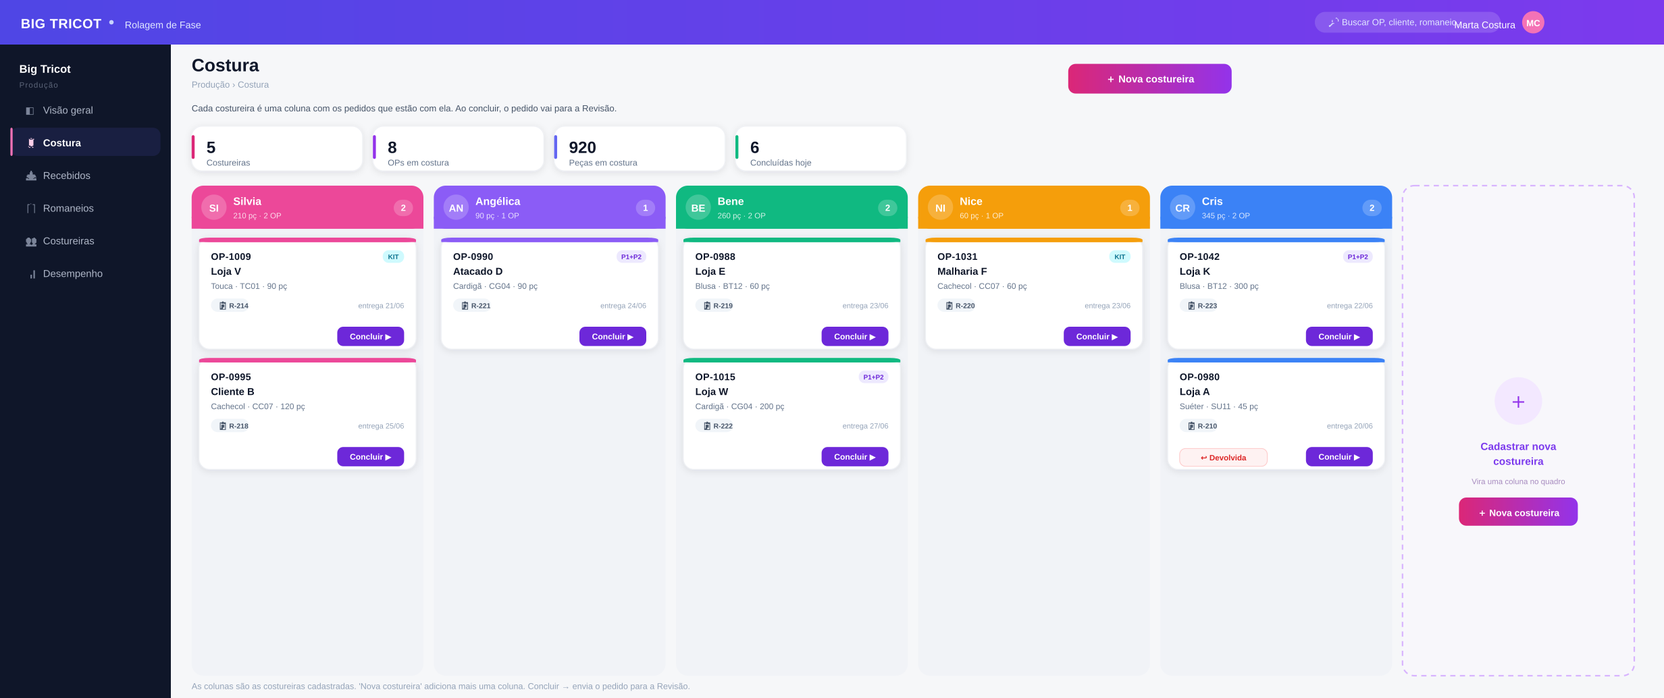
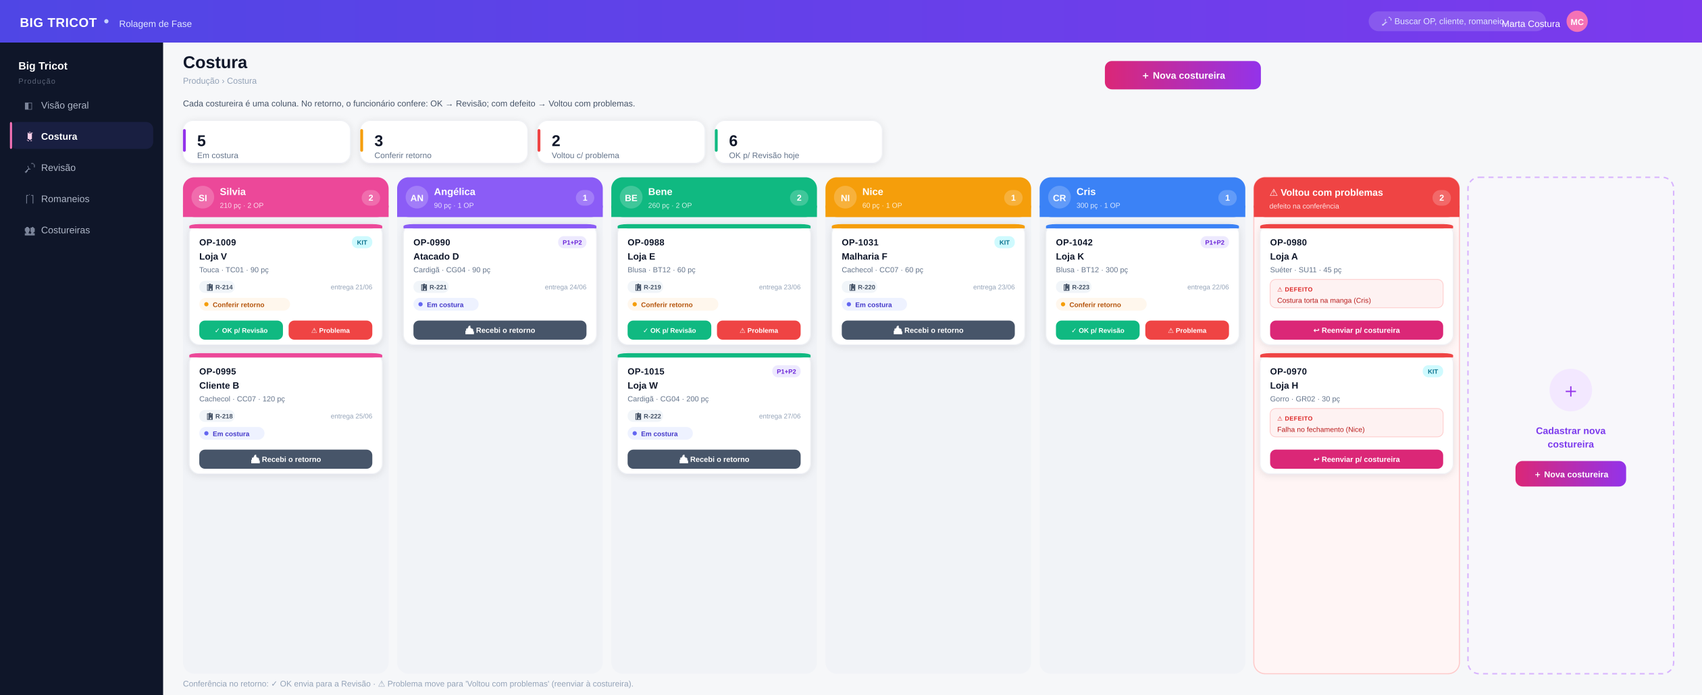
design+docs: Costura com conferencia no retorno (OK->Revisao / problema->Voltou com problemas) + setor Revisao (aguardando + revisoras Betania/Bruna/Sula/Ray/Eduarda + cadastrar)
Claude-Session: https://claude.ai/code/session_01XdKmwhB2iKVzR9dcT8XvFF

diff --git a/scripts/gen_costura.py b/scripts/gen_costura.py
@@ -15,7 +15,7 @@ def circle(cx,cy,r,fill,stroke=None,sw=2):
     s=f'<circle cx="{cx}" cy="{cy}" r="{r}" fill="{fill}"'
     if stroke: s+=f' stroke="{stroke}" stroke-width="{sw}"'
     return s+'/>'
-GRADS={"brand":("#4f46e5","#7c3aed"),"cos":("#db2777","#9333ea")}
+GRADS={"brand":("#4f46e5","#7c3aed"),"cos":("#db2777","#9333ea"),"rev":("#0d9488","#0891b2")}
 def gdefs(): return "".join(f'<linearGradient id="g_{k}" x1="0" y1="0" x2="1" y2="0"><stop offset="0" stop-color="{a}"/><stop offset="1" stop-color="{b}"/></linearGradient>' for k,(a,b) in GRADS.items())
 DEFS=('<defs>'+gdefs()+'<filter id="cardShadow" x="-30%" y="-30%" width="160%" height="160%">'
  '<feDropShadow dx="0" dy="2" stdDeviation="5" flood-color="#0f172a" flood-opacity="0.10"/></filter>'
@@ -25,121 +25,128 @@ def svg(w,h,body,bg="#f6f7f9"):
     return (f'<svg xmlns="http://www.w3.org/2000/svg" width="{w}" height="{h}" viewBox="0 0 {w} {h}" '
             f'font-family="Inter, Segoe UI, Helvetica, Arial, sans-serif">'+DEFS+rect(0,0,w,h,bg)+body+'</svg>')
 def avatar(cx,cy,r,ini,fill,fg="#fff"): return circle(cx,cy,r,fill)+text(cx,cy+r*0.35,ini,r*0.8,fg,weight="bold",anchor="middle")
+def tagchip(x,y,tag):
+    if not tag: return ""
+    tw=12+len(tag)*5.6; tc="#ede9fe" if tag!="KIT" else "#cffafe"; tf="#6d28d9" if tag!="KIT" else "#0e7490"
+    return rect(x-tw,y,tw,17,tc,rx=8)+text(x-tw/2,y+12,tag,9,tf,weight="bold",anchor="middle")
+def btn(x,y,w,label,col,h=27,fs=10.5):
+    return rect(x,y,w,h,col,rx=8)+text(x+w/2,y+h*0.64,label,fs,"#fff",weight="bold",anchor="middle")
 
-def ccard(x,y,cw,color,op,tag,client,product,qty,rom,due,devolvido=False):
-    ch=150
+def card(x,y,cw,color,op,tag,client,product,qty,rom,due,state,defect=None):
+    ch=170
     s=rect(x,y,cw,ch,"#ffffff",rx=14,stroke="#eef0f4",filt="cardShadow")
-    s+=rect(x,y,cw,6,color,rx=14)+rect(x,y+3,cw,3,color)
-    s+=text(x+16,y+30,op,13,"#0f172a",weight="bold",ls="0.3")
-    if tag:
-        tw=12+len(tag)*5.6; tc="#ede9fe" if tag!="KIT" else "#cffafe"; tf="#6d28d9" if tag!="KIT" else "#0e7490"
-        s+=rect(x+cw-16-tw,y+17,tw,17,tc,rx=8)+text(x+cw-16-tw/2,y+29,tag,9,tf,weight="bold",anchor="middle")
-    s+=text(x+16,y+50,client,13.5,"#0f172a",weight="bold")
-    s+=text(x+16,y+69,f"{product} · {qty} pç",11,"#64748b")
-    # romaneio + entrega
-    ry=y+82
-    rw=20+len(rom)*6.2
-    s+=rect(x+16,ry,rw,18,"#f1f5f9",rx=9)+text(x+16+10,ry+13,"📋 "+rom,9.5,"#475569",weight="bold")
-    s+=text(x+cw-16,ry+13,f"entrega {due}",10,"#94a3b8",anchor="end")
-    # footer
-    fy=y+ch-30
-    if devolvido:
-        s+=rect(x+16,fy+2,118,24,"#fef2f2",rx=8,stroke="#fecaca")+text(x+16+59,fy+18,"↩ Devolvida",10.5,"#dc2626",weight="bold",anchor="middle")
-    lab="Concluir ▶"; bw=24+len(lab)*6.6
-    s+=rect(x+cw-16-bw,fy,bw,26,"#6d28d9",rx=8)+text(x+cw-16-bw/2,fy+17,lab,11,"#fff",weight="bold",anchor="middle")
+    bar = "#ef4444" if state=="problema" else color
+    s+=rect(x,y,cw,6,bar,rx=14)+rect(x,y+3,cw,3,bar)
+    s+=text(x+14,y+30,op,12.5,"#0f172a",weight="bold",ls="0.3")+tagchip(x+cw-14,y+17,tag)
+    s+=text(x+14,y+50,client,13,"#0f172a",weight="bold")
+    s+=text(x+14,y+68,f"{product} · {qty} pç",10.5,"#64748b")
+    if state=="problema":
+        s+=rect(x+14,y+78,cw-28,40,"#fef2f2",rx=8,stroke="#fecaca")
+        s+=text(x+24,y+95,"⚠ DEFEITO",8.5,"#dc2626",weight="bold",ls="0.4")
+        s+=text(x+24,y+111,defect,10,"#b91c1c")
+        s+=btn(x+14,y+ch-34,cw-28,"↩ Reenviar p/ costureira","#db2777")
+        return s
+    # rom + entrega
+    ry=y+80; rw=20+len(rom)*6.0
+    s+=rect(x+14,ry,rw,17,"#f1f5f9",rx=8)+text(x+14+9,ry+12,"📋 "+rom,9,"#475569",weight="bold")
+    s+=text(x+cw-14,ry+12,f"entrega {due}",9.5,"#94a3b8",anchor="end")
+    # status chip
+    cy2=y+104
+    if state=="costura":
+        s+=rect(x+14,cy2,92,18,"#eef2ff",rx=9)+circle(x+24,cy2+9,3,"#6366f1")+text(x+33,cy2+13,"Em costura",9.5,"#4338ca",weight="bold")
+        s+=btn(x+14,y+ch-34,cw-28,"📥 Recebi o retorno","#475569")
+    else: # retorno → conferência
+        s+=rect(x+14,cy2,128,18,"#fff7ed",rx=9)+circle(x+24,cy2+9,3,"#f59e0b")+text(x+33,cy2+13,"Conferir retorno",9.5,"#b45309",weight="bold")
+        bw=(cw-28-8)/2
+        s+=btn(x+14,y+ch-34,bw,"✓ OK p/ Revisão","#10b981",fs=9.5)
+        s+=btn(x+14+bw+8,y+ch-34,bw,"⚠ Problema","#ef4444",fs=9.5)
     return s
 
 def board():
-    W,H=2240,940
+    W,H=2400,980
     b=rect(0,0,W,60,"url(#g_brand)")
     b+=text(28,38,"BIG TRICOT",18,"#fff",weight="bold",ls="0.5")+circle(150,30,3,"#c7d2fe")+text(168,38,"Rolagem de Fase",13,"#e0e7ff")
     b+=rect(W-470,16,250,28,"#ffffff26",rx=14)+text(W-452,34,"🔎  Buscar OP, cliente, romaneio…",12,"#e0e7ff")
     b+=text(W-200,38,"Marta Costura",13,"#fff",anchor="end")+avatar(W-176,30,15,"MC","#f472b6")
     b+=rect(0,60,230,H-60,"#0f1629")+text(26,98,"Big Tricot",15,"#fff",weight="bold")+text(26,118,"Produção",10.5,"#5b6478",ls="1")
-    nav=[("◧","Visão geral",False),("🧵","Costura",True),("📥","Recebidos",False),("📋","Romaneios",False),("👥","Costureiras",False),("📊","Desempenho",False)]
+    nav=[("◧","Visão geral",False),("🧵","Costura",True),("🔎","Revisão",False),("📋","Romaneios",False),("👥","Costureiras",False)]
     y=150
     for ic,label,act in nav:
         if act: b+=rect(14,y-22,202,38,"#6366f11f",rx=10)+rect(14,y-22,3,38,"#f472b6",rx=2)+text(34,y+3,ic,13,"#fbcfe8")+text(58,y+3,label,13.5,"#fff",weight="bold")
         else: b+=text(34,y+3,ic,13,"#7b8499")+text(58,y+3,label,13.5,"#aeb6c7")
         y+=44
     b+=text(258,96,"Costura",24,"#0f172a",weight="bold")+text(258,118,"Produção  ›  Costura",12,"#94a3b8")
-    b+=text(258,150,"Cada costureira é uma coluna com os pedidos que estão com ela. Ao concluir, o pedido vai para a Revisão.",12,"#475569")
-    # botão nova costureira no topo direito
-    b+=rect(258+1180,86,220,40,"url(#g_cos)",rx=10)+text(258+1180+110,111,"＋  Nova costureira",13.5,"#fff",weight="bold",anchor="middle")
-    kpis=[("Costureiras","5","#db2777"),("OPs em costura","8","#9333ea"),("Peças em costura","920","#6366f1"),("Concluídas hoje","6","#10b981")]
+    b+=text(258,150,"Cada costureira é uma coluna. No retorno, o funcionário confere: OK → Revisão; com defeito → Voltou com problemas.",12,"#475569")
+    b+=rect(258+1300,86,220,40,"url(#g_cos)",rx=10)+text(258+1300+110,111,"＋  Nova costureira",13.5,"#fff",weight="bold",anchor="middle")
+    kpis=[("Em costura","5","#9333ea"),("Conferir retorno","3","#f59e0b"),("Voltou c/ problema","2","#ef4444"),("OK p/ Revisão hoje","6","#10b981")]
     x=258
     for l,n,c in kpis:
-        b+=rect(x,170,230,60,"#ffffff",rx=14,stroke="#eef0f4",filt="cardShadow")+rect(x,182,4,32,c,rx=2)+text(x+20,206,n,22,"#0f172a",weight="bold")+text(x+20,223,l,11.5,"#64748b")
-        x+=244
-    # colunas = costureiras
+        b+=rect(x,170,236,60,"#ffffff",rx=14,stroke="#eef0f4",filt="cardShadow")+rect(x,182,4,32,c,rx=2)+text(x+20,206,n,22,"#0f172a",weight="bold")+text(x+20,223,l,11.5,"#64748b")
+        x+=250
     cost=[
-     ("Silvia","SI","#ec4899",[("OP-1009","KIT","Loja V","Touca · TC01","90","R-214","21/06",False),
-                                ("OP-0995","","Cliente B","Cachecol · CC07","120","R-218","25/06",False)]),
-     ("Angélica","AN","#8b5cf6",[("OP-0990","P1+P2","Atacado D","Cardigã · CG04","90","R-221","24/06",False)]),
-     ("Bene","BE","#10b981",[("OP-0988","","Loja E","Blusa · BT12","60","R-219","23/06",False),
-                              ("OP-1015","P1+P2","Loja W","Cardigã · CG04","200","R-222","27/06",False)]),
-     ("Nice","NI","#f59e0b",[("OP-1031","KIT","Malharia F","Cachecol · CC07","60","R-220","23/06",False)]),
-     ("Cris","CR","#3b82f6",[("OP-1042","P1+P2","Loja K","Blusa · BT12","300","R-223","22/06",False),
-                              ("OP-0980","","Loja A","Suéter · SU11","45","R-210","20/06",True)]),
+     ("Silvia","SI","#ec4899",[("OP-1009","KIT","Loja V","Touca · TC01","90","R-214","21/06","retorno",None),
+                                ("OP-0995","","Cliente B","Cachecol · CC07","120","R-218","25/06","costura",None)]),
+     ("Angélica","AN","#8b5cf6",[("OP-0990","P1+P2","Atacado D","Cardigã · CG04","90","R-221","24/06","costura",None)]),
+     ("Bene","BE","#10b981",[("OP-0988","","Loja E","Blusa · BT12","60","R-219","23/06","retorno",None),
+                              ("OP-1015","P1+P2","Loja W","Cardigã · CG04","200","R-222","27/06","costura",None)]),
+     ("Nice","NI","#f59e0b",[("OP-1031","KIT","Malharia F","Cachecol · CC07","60","R-220","23/06","costura",None)]),
+     ("Cris","CR","#3b82f6",[("OP-1042","P1+P2","Loja K","Blusa · BT12","300","R-223","22/06","retorno",None)]),
     ]
-    x0=258; cw=312; gap=14; ytop=250; colh=H-ytop-30
+    x0=258; cw=290; gap=12; ytop=250; colh=H-ytop-30
     for ci,(name,ini,color,cards) in enumerate(cost):
         x=x0+ci*(cw+gap)
         b+=rect(x,ytop,cw,colh,"#f1f3f7",rx=16)
-        b+=rect(x,ytop,cw,58,color,rx=16)+rect(x,ytop+42,cw,16,color)
-        b+=avatar(x+30,ytop+29,17,ini,"#ffffff33")
-        b+=text(x+56,ytop+26,name,14.5,"#fff",weight="bold")+text(x+56,ytop+44,f"{sum(int(c[4]) for c in cards)} pç · {len(cards)} OP",10.5,"#ffffffcc")
-        b+=rect(x+cw-40,ytop+19,26,22,"#ffffff33",rx=11)+text(x+cw-27,ytop+34,str(len(cards)),12,"#fff",weight="bold",anchor="middle")
-        cy=ytop+70
+        b+=rect(x,ytop,cw,56,color,rx=16)+rect(x,ytop+40,cw,16,color)
+        b+=avatar(x+28,ytop+28,16,ini,"#ffffff33")
+        b+=text(x+52,ytop+25,name,14,"#fff",weight="bold")+text(x+52,ytop+43,f"{sum(int(c[4]) for c in cards)} pç · {len(cards)} OP",10,"#ffffffcc")
+        b+=rect(x+cw-38,ytop+18,26,22,"#ffffff33",rx=11)+text(x+cw-25,ytop+33,str(len(cards)),12,"#fff",weight="bold",anchor="middle")
+        cy=ytop+66
         for c in cards:
-            b+=ccard(x+10,cy,cw-20,color,c[0],c[1],c[2],c[3],c[4],c[5],c[6],c[7]); cy+=162
-    # coluna add
+            b+=card(x+9,cy,cw-18,color,*c); cy+=182
+    # coluna Voltou com problemas
     x=x0+5*(cw+gap)
+    b+=rect(x,ytop,cw,colh,"#fff5f5",rx=16,stroke="#fecaca",sw=1.5)
+    b+=rect(x,ytop,cw,56,"#ef4444",rx=16)+rect(x,ytop+40,cw,16,"#ef4444")
+    b+=text(x+22,ytop+26,"⚠ Voltou com problemas",13.5,"#fff",weight="bold")+text(x+22,ytop+44,"defeito na conferência",10,"#fee2e2")
+    b+=rect(x+cw-38,ytop+18,26,22,"#ffffff33",rx=11)+text(x+cw-25,ytop+33,"2",12,"#fff",weight="bold",anchor="middle")
+    probs=[("OP-0980","","Loja A","Suéter · SU11","45","R-210","—","problema","Costura torta na manga (Cris)"),
+           ("OP-0970","KIT","Loja H","Gorro · GR02","30","R-205","—","problema","Falha no fechamento (Nice)")]
+    cy=ytop+66
+    for c in probs:
+        b+=card(x+9,cy,cw-18,"#ef4444",*c); cy+=182
+    # coluna add
+    x=x0+6*(cw+gap)
     b+=rect(x,ytop,cw,colh,"#f8f7fb",rx=16,stroke="#d8b4fe",sw=2,dash="7 6")
-    ccx=x+cw/2; ccy=ytop+colh/2-40
-    b+=circle(ccx,ccy,32,"#f3e8ff")+text(ccx,ccy+10,"＋",30,"#9333ea",anchor="middle")
-    b+=text(ccx,ccy+66,"Cadastrar nova",14,"#7c3aed",weight="bold",anchor="middle")
-    b+=text(ccx,ccy+86,"costureira",14,"#7c3aed",weight="bold",anchor="middle")
-    b+=text(ccx,ccy+112,"Vira uma coluna no quadro",10.5,"#a78bbf",anchor="middle")
-    b+=rect(x+cw/2-80,ccy+130,160,38,"url(#g_cos)",rx=10)+text(x+cw/2,ccy+155,"＋  Nova costureira",12.5,"#fff",weight="bold",anchor="middle")
-    b+=text(258,H-12,"As colunas são as costureiras cadastradas. 'Nova costureira' adiciona mais uma coluna. Concluir → envia o pedido para a Revisão.",11.5,"#94a3b8")
+    ccx=x+cw/2; ccy=ytop+colh/2-50
+    b+=circle(ccx,ccy,30,"#f3e8ff")+text(ccx,ccy+10,"＋",28,"#9333ea",anchor="middle")
+    b+=text(ccx,ccy+62,"Cadastrar nova",13.5,"#7c3aed",weight="bold",anchor="middle")
+    b+=text(ccx,ccy+81,"costureira",13.5,"#7c3aed",weight="bold",anchor="middle")
+    b+=rect(x+cw/2-78,ccy+100,156,36,"url(#g_cos)",rx=10)+text(x+cw/2,ccy+123,"＋  Nova costureira",12,"#fff",weight="bold",anchor="middle")
+    b+=text(258,H-12,"Conferência no retorno: ✓ OK envia para a Revisão · ⚠ Problema move para 'Voltou com problemas' (reenviar à costureira).",11.5,"#94a3b8")
     return svg(W,H,b)
 
 def modal():
     W,H=1180,820
     b=rect(0,0,W,60,"url(#g_brand)")+text(28,38,"BIG TRICOT",18,"#fff",weight="bold",ls="0.5")+text(168,38,"Rolagem de Fase",13,"#e0e7ff")+text(W-28,38,"Marta Costura",13,"#fff",anchor="end")
     b+=rect(0,60,W,H-60,"#eceef3")
-    mw,mh=560,580; mx=(W-mw)/2; my=110
+    mw,mh=560,560; mx=(W-mw)/2; my=110
     b+=rect(mx,my,mw,mh,"#ffffff",rx=22,filt="modalShadow")
     b+=rect(mx,my,mw,80,"url(#g_cos)",rx=22)+rect(mx,my+48,mw,32,"url(#g_cos)")
     b+=text(mx+28,my+38,"Cadastrar Costureira",19,"#fff",weight="bold")+text(mx+28,my+60,"Vira uma nova coluna no quadro da Costura",11.5,"#fce7f3")
     b+=circle(mx+mw-40,my+34,15,"#ffffff2e")+text(mx+mw-40,my+39,"✕",15,"#fff",anchor="middle")
     ix=mx+28; iw=mw-56
     def lbl(x,y,t): return text(x,y,t,9.5,"#94a3b8",weight="bold",ls="0.6")
-    def field(y,label,val,ph=False,w=None):
-        w=w or iw
-        s=lbl(ix,y,label)+rect(ix,y+8,w,44,"#ffffff",rx=10,stroke="#e2e8f0")
-        s+=text(ix+14,y+35,val,13,"#a5b4fc" if ph else "#0f172a",weight="normal" if ph else "bold")
-        return s
-    yy=my+108
-    b+=field(yy,"NOME DA COSTUREIRA","Ex.: Fernanda",ph=True)
-    half=(iw-16)/2
+    yy=my+108; half=(iw-16)/2
+    b+=lbl(ix,yy,"NOME DA COSTUREIRA")+rect(ix,yy+8,iw,44,"#ffffff",rx=10,stroke="#e2e8f0")+text(ix+14,yy+35,"Ex.: Fernanda",13,"#a5b4fc")
     b+=lbl(ix,yy+72,"TIPO")+rect(ix,yy+80,half,44,"#ffffff",rx=10,stroke="#e2e8f0")+text(ix+14,yy+107,"Interna  ▾",13,"#0f172a",weight="bold")
-    b+=rect(ix+half+16,yy+80,half,44,"#ffffff",rx=10,stroke="#e2e8f0")
-    b+=lbl(ix+half+16,yy+72,"CAPACIDADE (pç/sem)")
-    b+=text(ix+half+16+14,yy+107,"400",13,"#0f172a",weight="bold")
-    b+=field(yy+144,"CONTATO / TELEFONE","(00) 00000-0000",ph=True)
-    # cor/etiqueta
-    yc=yy+216
-    b+=lbl(ix,yc,"COR DA COLUNA")
-    colors=["#ec4899","#8b5cf6","#10b981","#f59e0b","#3b82f6","#ef4444","#14b8a6"]
-    cxx=ix
+    b+=lbl(ix+half+16,yy+72,"CAPACIDADE (pç/sem)")+rect(ix+half+16,yy+80,half,44,"#ffffff",rx=10,stroke="#e2e8f0")+text(ix+half+16+14,yy+107,"400",13,"#0f172a",weight="bold")
+    b+=lbl(ix,yy+144,"CONTATO / TELEFONE")+rect(ix,yy+152,iw,44,"#ffffff",rx=10,stroke="#e2e8f0")+text(ix+14,yy+179,"(00) 00000-0000",13,"#a5b4fc")
+    yc=yy+216; b+=lbl(ix,yc,"COR DA COLUNA")
+    colors=["#ec4899","#8b5cf6","#10b981","#f59e0b","#3b82f6","#ef4444","#14b8a6"]; cxx=ix
     for i,c in enumerate(colors):
-        sel = i==1
         b+=circle(cxx+16,yc+30,15,c)
-        if sel: b+=circle(cxx+16,yc+30,19,"none","#0f172a",2)
+        if i==1: b+=circle(cxx+16,yc+30,19,"none","#0f172a",2)
         cxx+=44
-    # footer
     fy=my+mh-64
     b+=rect(mx,fy-12,mw,76,"#fafbfc",rx=22)+rect(mx,fy-12,mw,30,"#fafbfc")
     b+=rect(ix,fy,130,44,"#ffffff",rx=10,stroke="#e2e8f0")+text(ix+65,fy+28,"Cancelar",13,"#475569",weight="bold",anchor="middle")
@@ -148,7 +155,7 @@ def modal():
 
 os.makedirs(OUT_SVG,exist_ok=True)
 open(os.path.join(OUT_SVG,"33-setor-costura.svg"),"w").write(board())
-subprocess.run(["rsvg-convert","-z","1.1",os.path.join(OUT_SVG,"33-setor-costura.svg"),"-o",os.path.join(OUT_PNG,"33-setor-costura.png")],check=True)
+subprocess.run(["rsvg-convert","-z","1.05",os.path.join(OUT_SVG,"33-setor-costura.svg"),"-o",os.path.join(OUT_PNG,"33-setor-costura.png")],check=True)
 open(os.path.join(OUT_SVG,"34-cadastrar-costureira.svg"),"w").write(modal())
 subprocess.run(["rsvg-convert","-z","1.5",os.path.join(OUT_SVG,"34-cadastrar-costureira.svg"),"-o",os.path.join(OUT_PNG,"34-cadastrar-costureira.png")],check=True)
-print("OK costura + modal")
+print("OK costura v2")

diff --git a/scripts/gen_revisao.py b/scripts/gen_revisao.py
@@ -1,0 +1,146 @@
+# -*- coding: utf-8 -*-
+import os, subprocess
+OUT_SVG="docs/prototipo/svg"; OUT_PNG="docs/prototipo"
+def esc(s): return str(s).replace("&","&amp;").replace("<","&lt;").replace(">","&gt;")
+def rect(x,y,w,h,fill,rx=0,stroke=None,sw=1,filt=None,dash=None):
+    s=f'<rect x="{x}" y="{y}" width="{w}" height="{h}" rx="{rx}" fill="{fill}"'
+    if stroke: s+=f' stroke="{stroke}" stroke-width="{sw}"'
+    if dash: s+=f' stroke-dasharray="{dash}"'
+    if filt: s+=f' filter="url(#{filt})"'
+    return s+'/>'
+def text(x,y,s,size=13,fill="#0f172a",weight="normal",anchor="start",ls=None):
+    extra=f' letter-spacing="{ls}"' if ls else ''
+    return f'<text x="{x}" y="{y}" font-size="{size}" fill="{fill}" font-weight="{weight}" text-anchor="{anchor}"{extra}>{esc(s)}</text>'
+def circle(cx,cy,r,fill,stroke=None,sw=2):
+    s=f'<circle cx="{cx}" cy="{cy}" r="{r}" fill="{fill}"'
+    if stroke: s+=f' stroke="{stroke}" stroke-width="{sw}"'
+    return s+'/>'
+GRADS={"brand":("#4f46e5","#7c3aed"),"rev":("#0d9488","#0891b2")}
+def gdefs(): return "".join(f'<linearGradient id="g_{k}" x1="0" y1="0" x2="1" y2="0"><stop offset="0" stop-color="{a}"/><stop offset="1" stop-color="{b}"/></linearGradient>' for k,(a,b) in GRADS.items())
+DEFS=('<defs>'+gdefs()+'<filter id="cardShadow" x="-30%" y="-30%" width="160%" height="160%">'
+ '<feDropShadow dx="0" dy="2" stdDeviation="5" flood-color="#0f172a" flood-opacity="0.10"/></filter>'
+ '<filter id="modalShadow" x="-30%" y="-30%" width="160%" height="160%">'
+ '<feDropShadow dx="0" dy="16" stdDeviation="28" flood-color="#1e1b4b" flood-opacity="0.28"/></filter></defs>')
+def svg(w,h,body,bg="#f6f7f9"):
+    return (f'<svg xmlns="http://www.w3.org/2000/svg" width="{w}" height="{h}" viewBox="0 0 {w} {h}" '
+            f'font-family="Inter, Segoe UI, Helvetica, Arial, sans-serif">'+DEFS+rect(0,0,w,h,bg)+body+'</svg>')
+def avatar(cx,cy,r,ini,fill,fg="#fff"): return circle(cx,cy,r,fill)+text(cx,cy+r*0.35,ini,r*0.8,fg,weight="bold",anchor="middle")
+def tagchip(x,y,tag):
+    if not tag: return ""
+    tw=12+len(tag)*5.6; tc="#ede9fe" if tag!="KIT" else "#cffafe"; tf="#6d28d9" if tag!="KIT" else "#0e7490"
+    return rect(x-tw,y,tw,17,tc,rx=8)+text(x-tw/2,y+12,tag,9,tf,weight="bold",anchor="middle")
+def btn(x,y,w,label,col,h=27,fs=10):
+    return rect(x,y,w,h,col,rx=8)+text(x+w/2,y+h*0.64,label,fs,"#fff",weight="bold",anchor="middle")
+
+def card(x,y,cw,color,op,tag,client,product,qty,rom,due,state):
+    ch=158
+    s=rect(x,y,cw,ch,"#ffffff",rx=14,stroke="#eef0f4",filt="cardShadow")
+    s+=rect(x,y,cw,6,color,rx=14)+rect(x,y+3,cw,3,color)
+    s+=text(x+14,y+30,op,12.5,"#0f172a",weight="bold",ls="0.3")+tagchip(x+cw-14,y+17,tag)
+    s+=text(x+14,y+50,client,13,"#0f172a",weight="bold")
+    s+=text(x+14,y+68,f"{product} · {qty} pç",10.5,"#64748b")
+    ry=y+80; rw=20+len(rom)*6.0
+    s+=rect(x+14,ry,rw,17,"#f1f5f9",rx=8)+text(x+14+9,ry+12,"📋 "+rom,9,"#475569",weight="bold")
+    s+=text(x+cw-14,ry+12,f"entrega {due}",9.5,"#94a3b8",anchor="end")
+    if state=="aguardando":
+        s+=btn(x+14,y+ch-34,cw-28,"👤 Atribuir revisora  ▾","#0d9488")
+    else:
+        bw=(cw-28-8)/2
+        s+=btn(x+14,y+ch-34,bw,"✓ Aprovar","#10b981")
+        s+=btn(x+14+bw+8,y+ch-34,bw,"✗ Reprovar","#ef4444")
+    return s
+
+def board():
+    W,H=2400,980
+    b=rect(0,0,W,60,"url(#g_brand)")
+    b+=text(28,38,"BIG TRICOT",18,"#fff",weight="bold",ls="0.5")+circle(150,30,3,"#c7d2fe")+text(168,38,"Rolagem de Fase",13,"#e0e7ff")
+    b+=rect(W-470,16,250,28,"#ffffff26",rx=14)+text(W-452,34,"🔎  Buscar OP, cliente, romaneio…",12,"#e0e7ff")
+    b+=text(W-200,38,"Sônia Revisão",13,"#fff",anchor="end")+avatar(W-176,30,15,"SR","#2dd4bf")
+    b+=rect(0,60,230,H-60,"#0f1629")+text(26,98,"Big Tricot",15,"#fff",weight="bold")+text(26,118,"Produção",10.5,"#5b6478",ls="1")
+    nav=[("◧","Visão geral",False),("🧵","Costura",False),("🔎","Revisão",True),("📦","Expedição",False),("👥","Revisoras",False)]
+    y=150
+    for ic,label,act in nav:
+        if act: b+=rect(14,y-22,202,38,"#6366f11f",rx=10)+rect(14,y-22,3,38,"#2dd4bf",rx=2)+text(34,y+3,ic,13,"#99f6e4")+text(58,y+3,label,13.5,"#fff",weight="bold")
+        else: b+=text(34,y+3,ic,13,"#7b8499")+text(58,y+3,label,13.5,"#aeb6c7")
+        y+=44
+    b+=text(258,96,"Revisão",24,"#0f172a",weight="bold")+text(258,118,"Produção  ›  Revisão",12,"#94a3b8")
+    b+=text(258,150,"Pedidos chegam em 'Aguardando para revisar'. Cada revisora é uma coluna. Aprovado → Expedição; reprovado → volta p/ Costura.",12,"#475569")
+    b+=rect(258+1300,86,210,40,"url(#g_rev)",rx=10)+text(258+1300+105,111,"＋  Nova revisora",13.5,"#fff",weight="bold",anchor="middle")
+    kpis=[("Aguardando revisar","4","#f59e0b"),("Em revisão","5","#0891b2"),("Aprovados hoje","8","#10b981"),("Reprovados hoje","2","#ef4444")]
+    x=258
+    for l,n,c in kpis:
+        b+=rect(x,170,236,60,"#ffffff",rx=14,stroke="#eef0f4",filt="cardShadow")+rect(x,182,4,32,c,rx=2)+text(x+20,206,n,22,"#0f172a",weight="bold")+text(x+20,223,l,11.5,"#64748b")
+        x+=250
+    x0=258; cw=290; gap=12; ytop=250; colh=H-ytop-30
+    # coluna Aguardando para revisar
+    x=x0
+    b+=rect(x,ytop,cw,colh,"#fffaf0",rx=16,stroke="#fcd9a3",sw=1.5)
+    b+=rect(x,ytop,cw,56,"#f59e0b",rx=16)+rect(x,ytop+40,cw,16,"#f59e0b")
+    b+=text(x+22,ytop+26,"Aguardando para revisar",13,"#fff",weight="bold")+text(x+22,ytop+44,"chegou da Costura (OK)",10,"#fff7e6")
+    b+=rect(x+cw-38,ytop+18,26,22,"#ffffff33",rx=11)+text(x+cw-25,ytop+33,"4",12,"#fff",weight="bold",anchor="middle")
+    aguard=[("OP-1009","KIT","Loja V","Touca · TC01","90","R-214","21/06"),
+            ("OP-0988","","Loja E","Blusa · BT12","60","R-219","23/06"),
+            ("OP-1015","P1+P2","Loja W","Cardigã · CG04","200","R-222","27/06"),
+            ("OP-1031","KIT","Malharia F","Cachecol · CC07","60","R-220","23/06")]
+    cy=ytop+66
+    for c in aguard:
+        b+=card(x+9,cy,cw-18,"#f59e0b",*c,"aguardando"); cy+=170
+    # colunas revisoras
+    revs=[("Betânia","BE","#0d9488",[("OP-0990","P1+P2","Atacado D","Cardigã · CG04","90","R-221","24/06")]),
+          ("Bruna","BR","#6366f1",[("OP-0995","","Cliente B","Cachecol · CC07","120","R-218","25/06")]),
+          ("Sula","SU","#ec4899",[("OP-1042","P1+P2","Loja K","Blusa · BT12","300","R-223","22/06")]),
+          ("Ray","RA","#f59e0b",[("OP-0985","KIT","Loja N","Luva · LV02","60","R-216","24/06")]),
+          ("Eduarda","ED","#8b5cf6",[("OP-0978","","Loja P","Suéter · SU11","80","R-212","26/06")])]
+    for ci,(name,ini,color,cards) in enumerate(revs):
+        x=x0+(ci+1)*(cw+gap)
+        b+=rect(x,ytop,cw,colh,"#f1f3f7",rx=16)
+        b+=rect(x,ytop,cw,56,color,rx=16)+rect(x,ytop+40,cw,16,color)
+        b+=avatar(x+28,ytop+28,16,ini,"#ffffff33")
+        b+=text(x+52,ytop+25,name,14,"#fff",weight="bold")+text(x+52,ytop+43,f"{len(cards)} em revisão",10,"#ffffffcc")
+        b+=rect(x+cw-38,ytop+18,26,22,"#ffffff33",rx=11)+text(x+cw-25,ytop+33,str(len(cards)),12,"#fff",weight="bold",anchor="middle")
+        cy=ytop+66
+        for c in cards:
+            b+=card(x+9,cy,cw-18,color,*c,"revisando"); cy+=170
+    # coluna add
+    x=x0+6*(cw+gap)
+    b+=rect(x,ytop,cw,colh,"#f0fdfa",rx=16,stroke="#5eead4",sw=2,dash="7 6")
+    ccx=x+cw/2; ccy=ytop+colh/2-50
+    b+=circle(ccx,ccy,30,"#ccfbf1")+text(ccx,ccy+10,"＋",28,"#0d9488",anchor="middle")
+    b+=text(ccx,ccy+62,"Cadastrar nova",13.5,"#0f766e",weight="bold",anchor="middle")
+    b+=text(ccx,ccy+81,"revisora",13.5,"#0f766e",weight="bold",anchor="middle")
+    b+=rect(x+cw/2-74,ccy+100,148,36,"url(#g_rev)",rx=10)+text(x+cw/2,ccy+123,"＋  Nova revisora",12,"#fff",weight="bold",anchor="middle")
+    b+=text(258,H-12,"Aprovar → Expedição (desmembra os pedidos agrupados). Reprovar → volta para a Costura em 'Voltou com problemas'.",11.5,"#94a3b8")
+    return svg(W,H,b)
+
+def modal():
+    W,H=1180,820
+    b=rect(0,0,W,60,"url(#g_brand)")+text(28,38,"BIG TRICOT",18,"#fff",weight="bold",ls="0.5")+text(168,38,"Rolagem de Fase",13,"#e0e7ff")+text(W-28,38,"Sônia Revisão",13,"#fff",anchor="end")
+    b+=rect(0,60,W,H-60,"#eceef3")
+    mw,mh=560,500; mx=(W-mw)/2; my=130
+    b+=rect(mx,my,mw,mh,"#ffffff",rx=22,filt="modalShadow")
+    b+=rect(mx,my,mw,80,"url(#g_rev)",rx=22)+rect(mx,my+48,mw,32,"url(#g_rev)")
+    b+=text(mx+28,my+38,"Cadastrar Revisora",19,"#fff",weight="bold")+text(mx+28,my+60,"Vira uma nova coluna no quadro da Revisão",11.5,"#ccfbf1")
+    b+=circle(mx+mw-40,my+34,15,"#ffffff2e")+text(mx+mw-40,my+39,"✕",15,"#fff",anchor="middle")
+    ix=mx+28; iw=mw-56
+    def lbl(x,y,t): return text(x,y,t,9.5,"#94a3b8",weight="bold",ls="0.6")
+    yy=my+108
+    b+=lbl(ix,yy,"NOME DA REVISORA")+rect(ix,yy+8,iw,44,"#ffffff",rx=10,stroke="#e2e8f0")+text(ix+14,yy+35,"Ex.: Patrícia",13,"#94d3c9")
+    b+=lbl(ix,yy+72,"CONTATO / TELEFONE")+rect(ix,yy+80,iw,44,"#ffffff",rx=10,stroke="#e2e8f0")+text(ix+14,yy+107,"(00) 00000-0000",13,"#94d3c9")
+    yc=yy+144; b+=lbl(ix,yc,"COR DA COLUNA")
+    colors=["#0d9488","#6366f1","#ec4899","#f59e0b","#8b5cf6","#ef4444","#14b8a6"]; cxx=ix
+    for i,c in enumerate(colors):
+        b+=circle(cxx+16,yc+30,15,c)
+        if i==0: b+=circle(cxx+16,yc+30,19,"none","#0f172a",2)
+        cxx+=44
+    fy=my+mh-64
+    b+=rect(mx,fy-12,mw,76,"#fafbfc",rx=22)+rect(mx,fy-12,mw,30,"#fafbfc")
+    b+=rect(ix,fy,130,44,"#ffffff",rx=10,stroke="#e2e8f0")+text(ix+65,fy+28,"Cancelar",13,"#475569",weight="bold",anchor="middle")
+    b+=rect(mx+mw-28-230,fy,230,44,"url(#g_rev)",rx=10)+text(mx+mw-28-115,fy+28,"💾  Salvar revisora",13,"#fff",weight="bold",anchor="middle")
+    return svg(W,H,b)
+
+os.makedirs(OUT_SVG,exist_ok=True)
+open(os.path.join(OUT_SVG,"35-setor-revisao.svg"),"w").write(board())
+subprocess.run(["rsvg-convert","-z","1.05",os.path.join(OUT_SVG,"35-setor-revisao.svg"),"-o",os.path.join(OUT_PNG,"35-setor-revisao.png")],check=True)
+open(os.path.join(OUT_SVG,"36-cadastrar-revisora.svg"),"w").write(modal())
+subprocess.run(["rsvg-convert","-z","1.5",os.path.join(OUT_SVG,"36-cadastrar-revisora.svg"),"-o",os.path.join(OUT_PNG,"36-cadastrar-revisora.png")],check=True)
+print("OK revisao")

diff --git a/docs/12-PAGINAS-POR-SETOR.md b/docs/12-PAGINAS-POR-SETOR.md
@@ -132,3 +132,24 @@ Formulário preenchido pela **Expedição** (o **Fiscal só visualiza**, em leit
 - **Cadastrar costureira** (modal): nome, tipo (interna/facção), capacidade (pç/sem), contato e **cor da coluna**.
 
 > Modelo de dados: catálogo `costureira` (nome, tipo, capacidade, cor) + `romaneio` ligando OPs à costureira. As colunas do quadro são geradas dinamicamente a partir das costureiras cadastradas.
+
+
+## 3.5b Costura — conferência no retorno ✅
+
+Quando o pedido **volta da costureira**, o funcionário da Costura **confere as peças** no próprio card:
+- **✓ OK p/ Revisão** → o pedido sai da Costura e entra na Revisão (coluna "Aguardando para revisar").
+- **⚠ Problema** → o card vai para a coluna **"Voltou com problemas"** (dentro da Costura), com o **defeito descrito** e o botão **↩ Reenviar p/ costureira**.
+
+Estados do card na coluna da costureira: **Em costura** → (📥 Recebi o retorno) → **Conferir retorno** → ✓/⚠.
+
+## 3.6 Revisão — fluxo aprovado ✅
+
+Colunas:
+1. **Aguardando para revisar** — pedidos que chegaram da Costura (aprovados na conferência).
+2. **Uma coluna por revisora:** **Betânia, Bruna, Sula, Ray, Eduarda** — com opção de **cadastrar novas**.
+
+- Card em "Aguardando": **👤 Atribuir revisora** (escolhe para qual coluna vai).
+- Card na coluna da revisora: **✓ Aprovar** → vai para a **Expedição** (e **desmembra os pedidos agrupados**) · **✗ Reprovar** → volta para a **Costura** ("Voltou com problemas").
+- **Cadastrar revisora** (modal): nome, contato e **cor da coluna**.
+
+> Modelo de dados: catálogo `revisora` + `revisao` (resultado aprovado/reprovado, motivo). Colunas geradas dinamicamente a partir das revisoras cadastradas.
